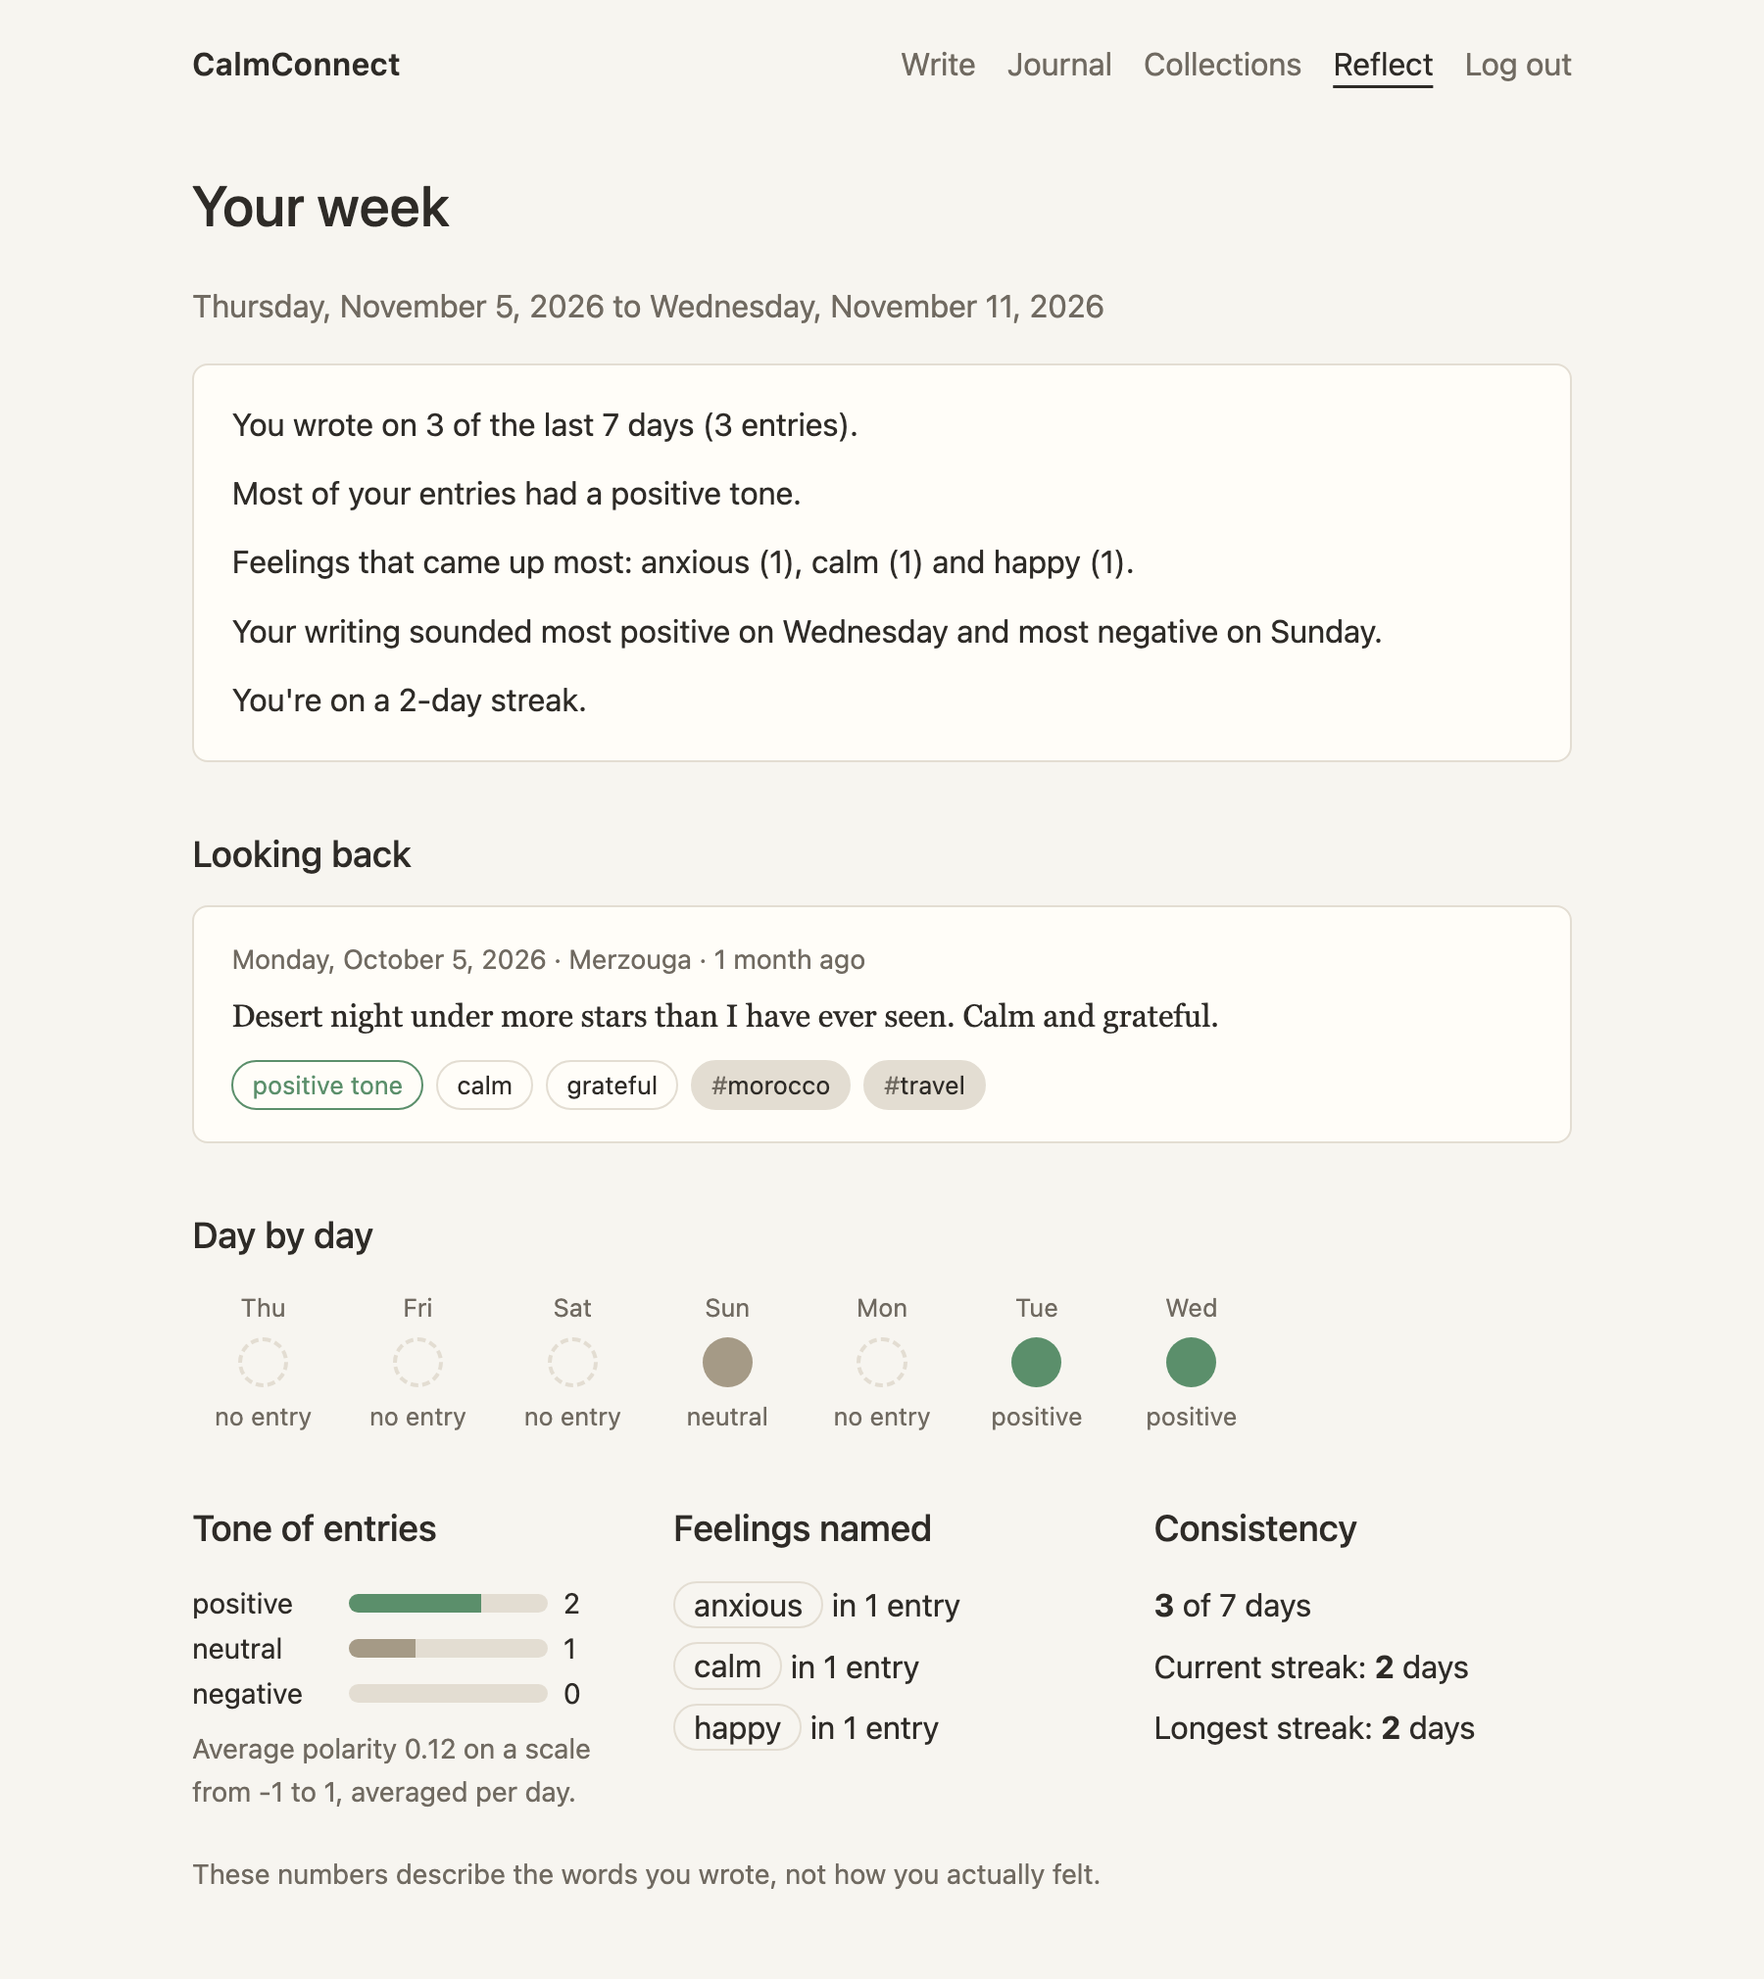
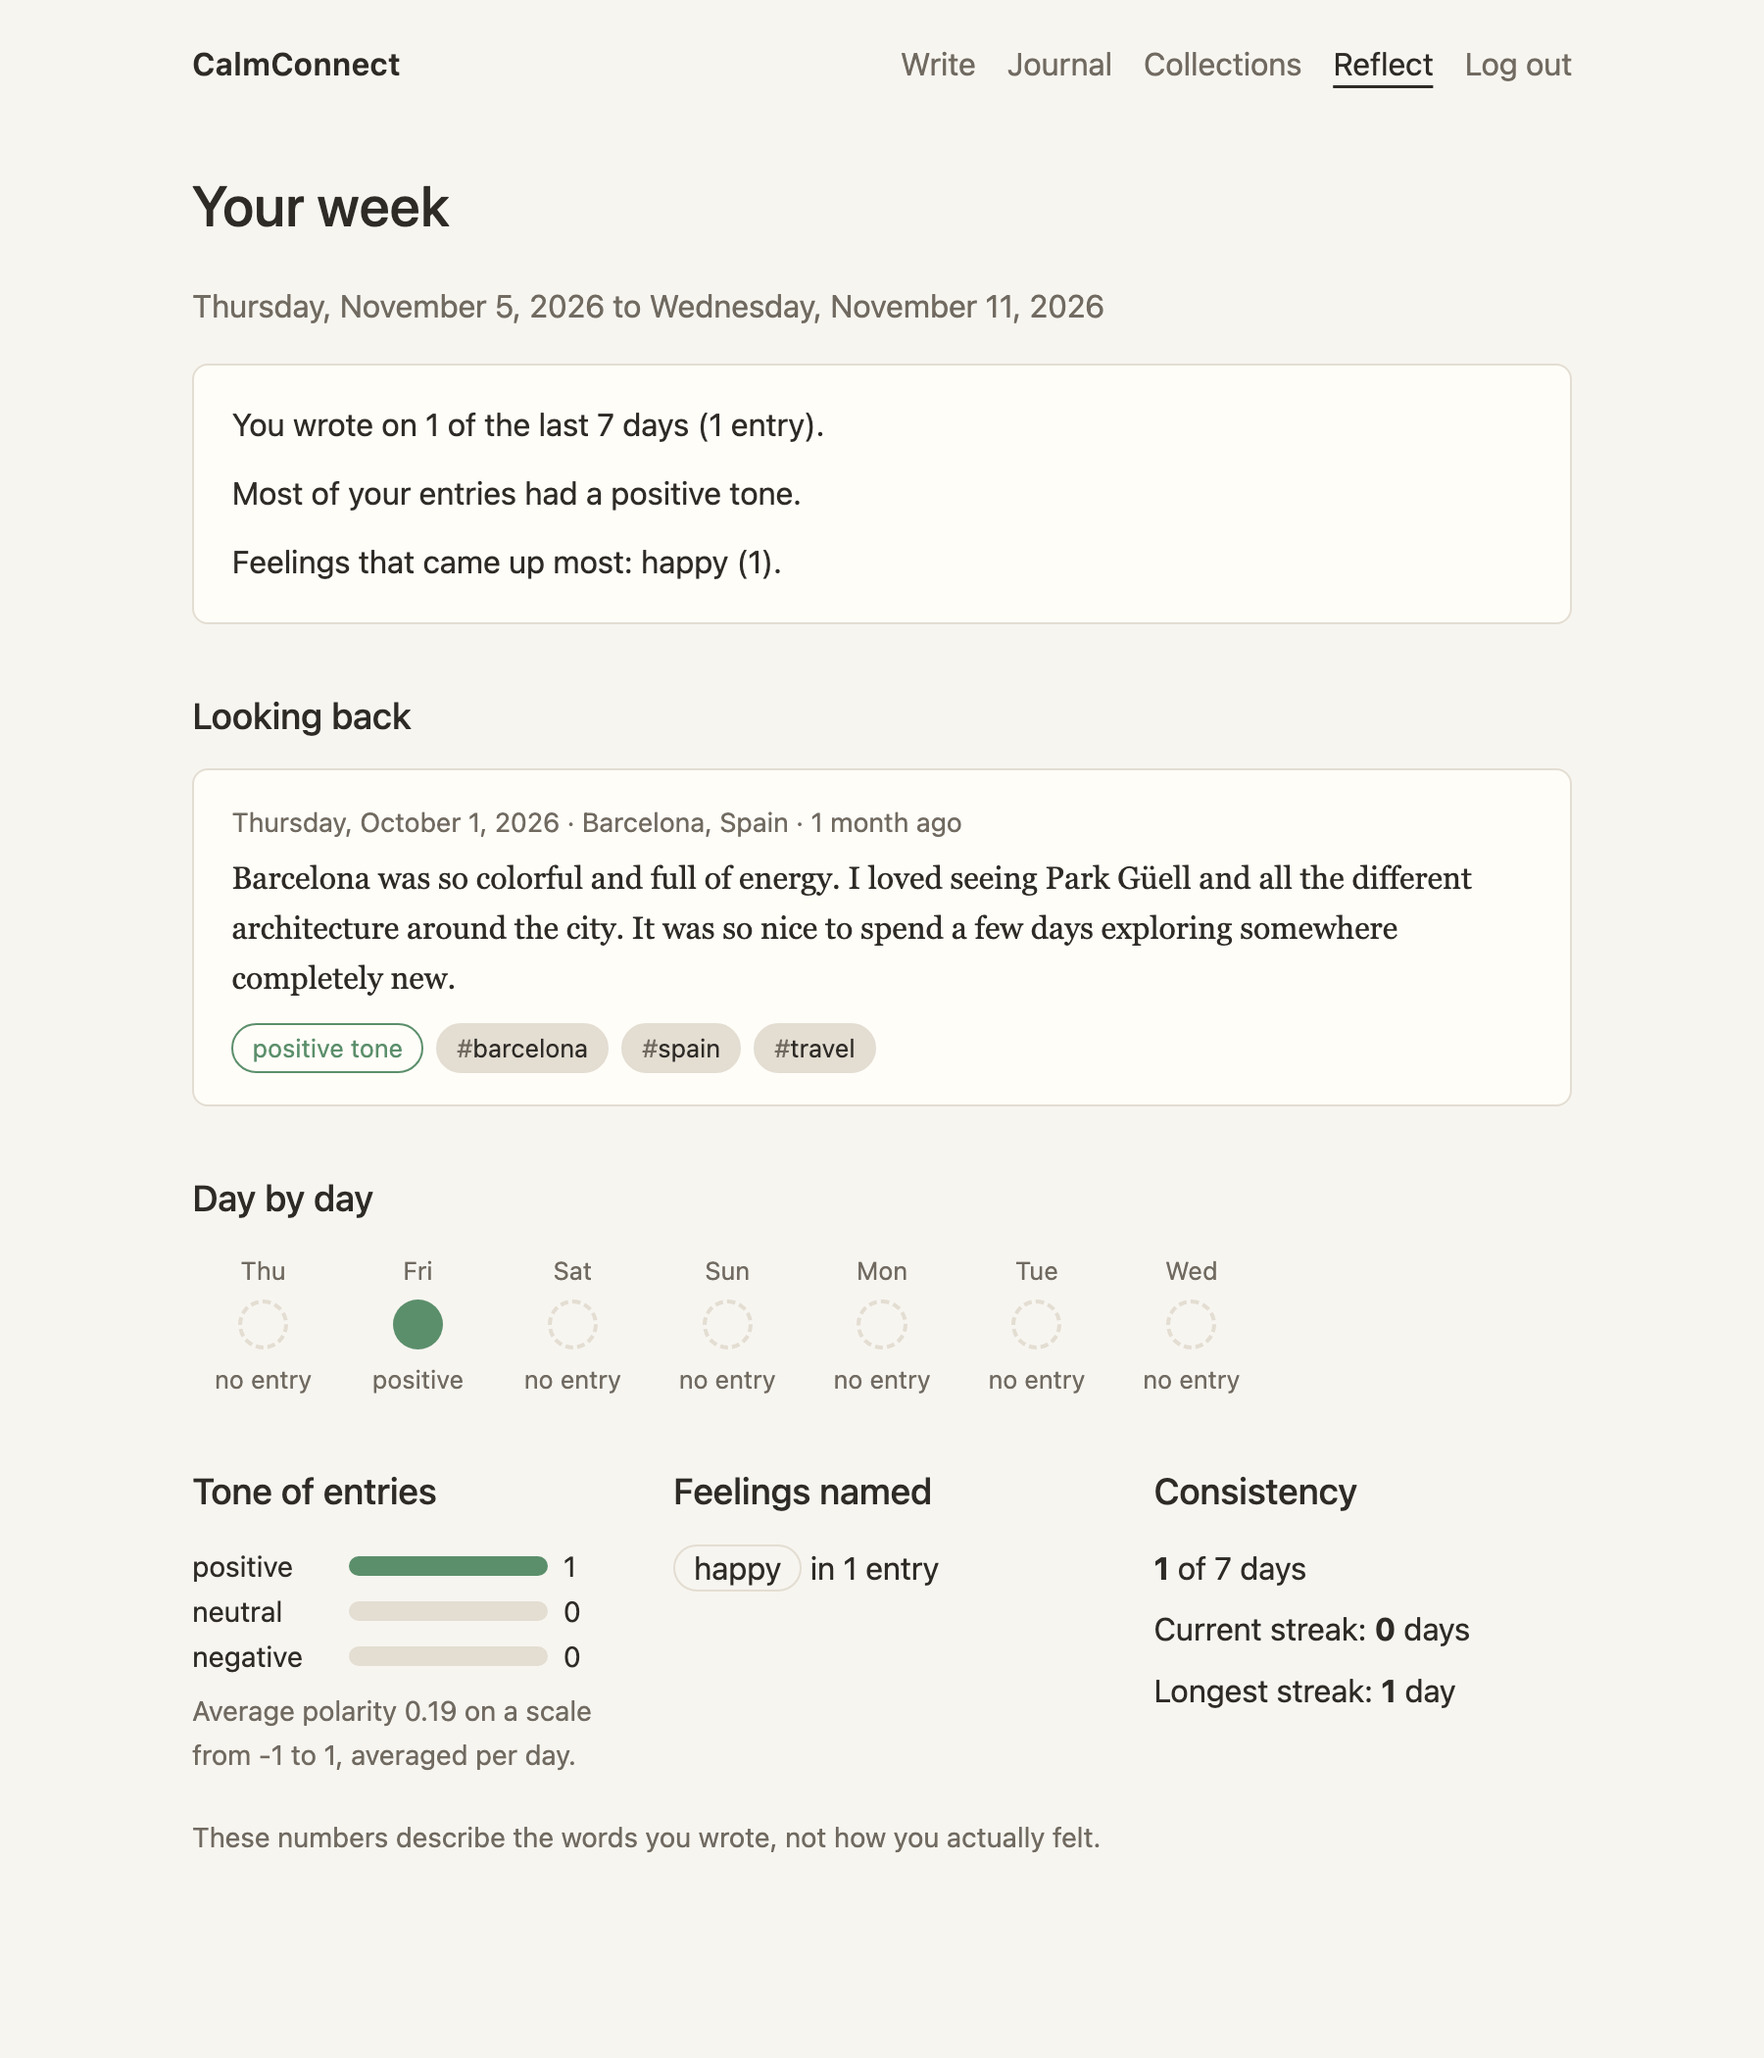
Describe the demo journal in the README and use it for the screenshots
Uses the new intro, adds a short section on running and resetting the
demo (and that its entries are illustrative), updates the CLI examples,
and replaces the screenshots with ones taken from the demo journal.

diff --git a/README.md b/README.md
@@ -1,20 +1,18 @@
 # CalmConnect
 
-CalmConnect started as a small personal project because I wanted somewhere to write down my thoughts at the end of the day. Over time it turned into a way to keep track of little moments, notice how I was feeling, and come back to experiences I didn't want to forget.
+CalmConnect started as a small journaling project built around a simple idea: sometimes, after a long day, you just need somewhere to put your thoughts. I've continued developing it over time, and journaling during my semester abroad has made me appreciate it even more. Being able to revisit what I was thinking and feeling during different trips is something I know I'll love looking back on.
 
-I'm studying abroad this semester, and that's when it started to matter more to me. When I look back on these months, I want to remember more than photos and itineraries. I want to remember what the days actually felt like.
+It's a private journal you can use from the terminal or the browser. You can tag entries by trip or city, search for a place later, and read everything from one trip back in order. It does some light analysis of the words you write, but it isn't a therapist or a chatbot, and it doesn't pretend to know how you feel.
 
-So this is a private journal that runs on my own laptop. I can write from the terminal or the browser, tag entries by trip, and later read a whole trip back in order. It does some light analysis of the words I write, but it isn't a therapist or a chatbot, and it doesn't pretend to know how I feel.
-
-![A trip collection in the browser](docs/screenshots/trip.png)
-<sub>A trip collection in the browser (sample entries).</sub>
+![The Travel collection, with entries in the order they were written](docs/screenshots/trip.png)
+<sub>A collection in the browser, using the sample entries from the demo journal.</sub>
 
 ## What it does
 
 - Write, edit and delete entries. Each one can have a title, a place and tags, and you can backdate an entry if you missed a day.
 - If you don't know where to start, it can give you a prompt.
-- Every tag becomes a collection. Tag entries `morocco` or `copenhagen` and you can read that trip from start to finish, with a small timeline of how the tone of your writing changed along the way.
-- Search text, titles and places, and filter by tag or date.
+- Every tag becomes a collection. Tag entries `italy` or `dublin` and you can read that trip from start to finish, with a small timeline and summary of how the tone of your writing changed along the way.
+- Search text, titles and places (so searching a city finds entries from there), and filter by tag or date range. Filters combine, so you can search within one trip.
 - A weekly reflection shows which days you wrote, the mix of tones, the feelings that came up most and your streaks, summed up in a few plain sentences.
 - "Looking back" brings up an older entry, preferring one from this day in an earlier year.
 
@@ -43,37 +41,53 @@ pip install -e .
 
 That installs Flask, TextBlob and Rich and gives you a `calmconnect` command. Everything is saved in `./data` (your journal, a generated secret key and your CLI login), and git ignores that folder. [`.env.example`](.env.example) lists the optional settings.
 
+## Trying it with sample entries
+
+If you want to look around before writing anything, `demo.py` creates a separate demo journal in `demo-data/` with seven short sample entries from a semester abroad: Iceland, Prague, Barcelona, Rome, the Amalfi Coast, Dublin and Morocco.
+
+```bash
+python demo.py            # prints a generated password for the "demo" account
+CALMCONNECT_DATA_DIR=demo-data flask --app api.main run
+CALMCONNECT_DATA_DIR=demo-data calmconnect login demo
+
+python demo.py --reset    # delete the demo journal and start over
+```
+
+These are illustrative sample reflections, not diary entries from those exact days. Only the month or date range of each trip is known, so each entry sits on the first day of its period (the October trips all show October 1). The demo never opens your real journal in `data/`, and it won't overwrite an existing demo unless you pass `--reset`. The weekly reflection only covers the last seven days, so after a while the demo week will be empty, but collections, search and "Looking back" still work.
+
 ## From the terminal
 
 ```bash
 calmconnect register
 calmconnect journal                              # type freely, finish with Ctrl-D
 calmconnect journal --prompt
-calmconnect journal "Rainy day by the canal." --place Copenhagen --tags travel,copenhagen
-calmconnect journal "Finally writing about Saturday." --date 2026-11-07
+calmconnect journal "Your entry here" --place "Prague, Czech Republic" --tags prague,study-abroad
+calmconnect journal "Writing about a day I missed" --date 2026-11-07
 
-calmconnect history --tag copenhagen --oldest    # read a trip in order
-calmconnect history -s bakery                    # search text, titles and places
-calmconnect history --on 2026-10-02
+calmconnect history --tag italy --oldest         # read a trip in order
+calmconnect history -s dublin                    # search text, titles and places
+calmconnect history --tag travel -s halloween    # search within a trip
+calmconnect history --from 2026-10-01 --to 2026-10-31
 calmconnect show 12
 calmconnect edit 12                              # opens $EDITOR
-calmconnect edit 12 --tags travel,morocco
+calmconnect edit 12 --tags travel,ireland
 calmconnect delete 12
 
 calmconnect reflect                              # your week, plus an older entry
 calmconnect stats
-calmconnect tags morocco
+calmconnect tags                                 # every tag, with dates
+calmconnect tags travel                          # one collection, in order
 ```
 
-Here's `calmconnect tags morocco` after a trip:
+Here's the start of `calmconnect tags travel` in the demo journal:
 
 ```
-#morocco  4 entries, 2026-10-01 to 2026-10-06
+#travel  6 entries, 2026-08-01 to 2026-11-06
 
- Oct 1     Oct 2     Oct 4     Oct 6
-positive  positive  positive  negative
-Your writing sounded more negative toward the end than at the start.
-Feelings named most: grateful (2), anxious (1), calm (1)
+ Aug 1    Oct 1     Oct 30    Nov 6
+neutral  positive  positive  positive
+The tone of your writing stayed fairly steady throughout.
+Feelings named most: happy (2)
 ```
 
 Every command has `--help`. If you don't want to install it, `python -m cli.main` works the same way from the project folder.
@@ -87,7 +101,7 @@ flask --app api.main run
 Then open http://127.0.0.1:5000 and make an account. There are four pages: Write, Journal, Collections and Reflect. It's plain HTML and CSS with no JavaScript, works on a phone, and follows your system's dark mode.
 
 <p>
-  <img src="docs/screenshots/write.png" width="49%" alt="Writing an entry with a prompt">
+  <img src="docs/screenshots/search.png" width="49%" alt="Searching the journal for Italy">
   <img src="docs/screenshots/reflect.png" width="49%" alt="The weekly reflection page">
 </p>
 
@@ -147,6 +161,7 @@ app/storage.py    SQLite schema and queries
 api/main.py       Flask app setup and the JSON API
 api/web.py        browser pages (templates/ and static/ sit next to it)
 cli/main.py       the calmconnect command
+demo.py           creates the optional demo journal
 tests/            one test file per area
 docs/screenshots  the images in this README
 ```
